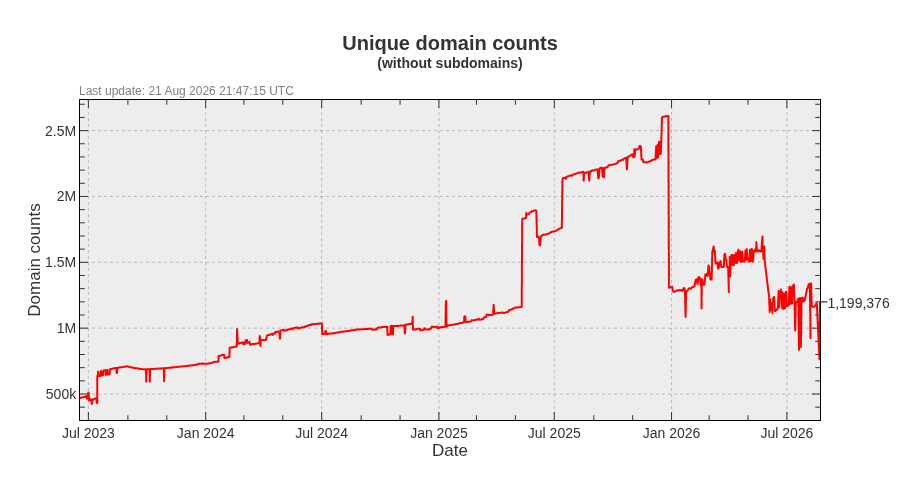
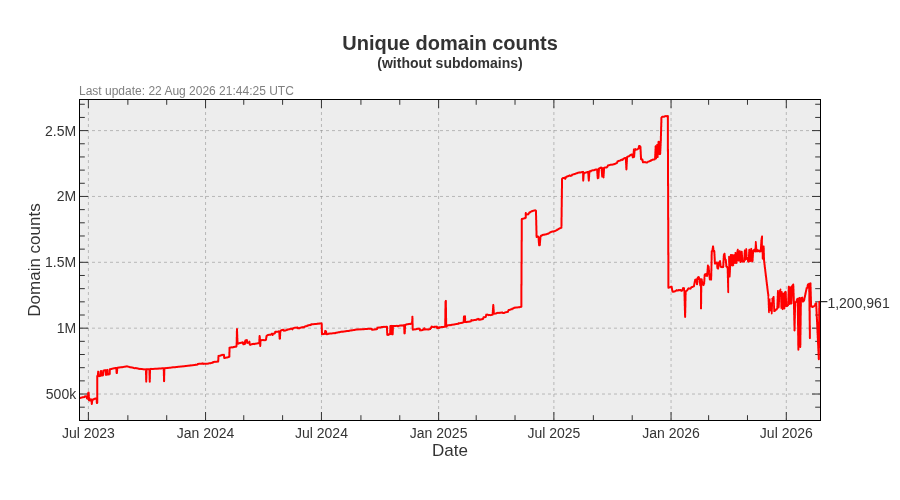
Update pages

diff --git a/README.md b/README.md
@@ -3,22 +3,22 @@ A blocklist file for blocking ads, trackers and malware domains.
 
[1 lines of base64/hex data omitted]
 
-- Unique domains: 1,982,345
-- Without subdomains: 1,199,376
-- Last update: 21 Aug 2026 21:47:15 UTC
-- Version: 2026.08.21.02
+- Unique domains: 1,983,797
+- Without subdomains: 1,200,961
+- Last update: 22 Aug 2026 21:44:25 UTC
+- Version: 2026.08.22.01
 
 
 ## Downloads:
 
 | Format             | Domain count      | Download Link |
 |------------------ | -----------------|-------------|
-| *Adblock Plus*     | 1,199,376 | [bad-hosts-abp](https://dl.cenk.app/bad-hosts/bad-hosts-abp) |
-| *Wildcard domains* | 1,199,376 | [bad-hosts-wildcard](https://dl.cenk.app/bad-hosts/bad-hosts-wildcard) |
-| *dnsmasq*          | 1,199,376 | [bad-hosts-dnsmasq](https://dl.cenk.app/bad-hosts/bad-hosts-dnsmasq) |
-| *hosts*            | 1,982,345 | [hosts](https://dl.cenk.app/bad-hosts/hosts) |
-| *hosts (ipv6)*     | 1,982,345 | [hosts-ipv6](https://dl.cenk.app/bad-hosts/hosts-ipv6) |
-| *Plain domains*    | 1,982,345 | [bad-hosts-domains](https://dl.cenk.app/bad-hosts/bad-hosts-domains) |
+| *Adblock Plus*     | 1,200,961 | [bad-hosts-abp](https://dl.cenk.app/bad-hosts/bad-hosts-abp) |
+| *Wildcard domains* | 1,200,961 | [bad-hosts-wildcard](https://dl.cenk.app/bad-hosts/bad-hosts-wildcard) |
+| *dnsmasq*          | 1,200,961 | [bad-hosts-dnsmasq](https://dl.cenk.app/bad-hosts/bad-hosts-dnsmasq) |
+| *hosts*            | 1,983,797 | [hosts](https://dl.cenk.app/bad-hosts/hosts) |
+| *hosts (ipv6)*     | 1,983,797 | [hosts-ipv6](https://dl.cenk.app/bad-hosts/hosts-ipv6) |
+| *Plain domains*    | 1,983,797 | [bad-hosts-domains](https://dl.cenk.app/bad-hosts/bad-hosts-domains) |
 
 ## Domain count history
 ### With subdomains
